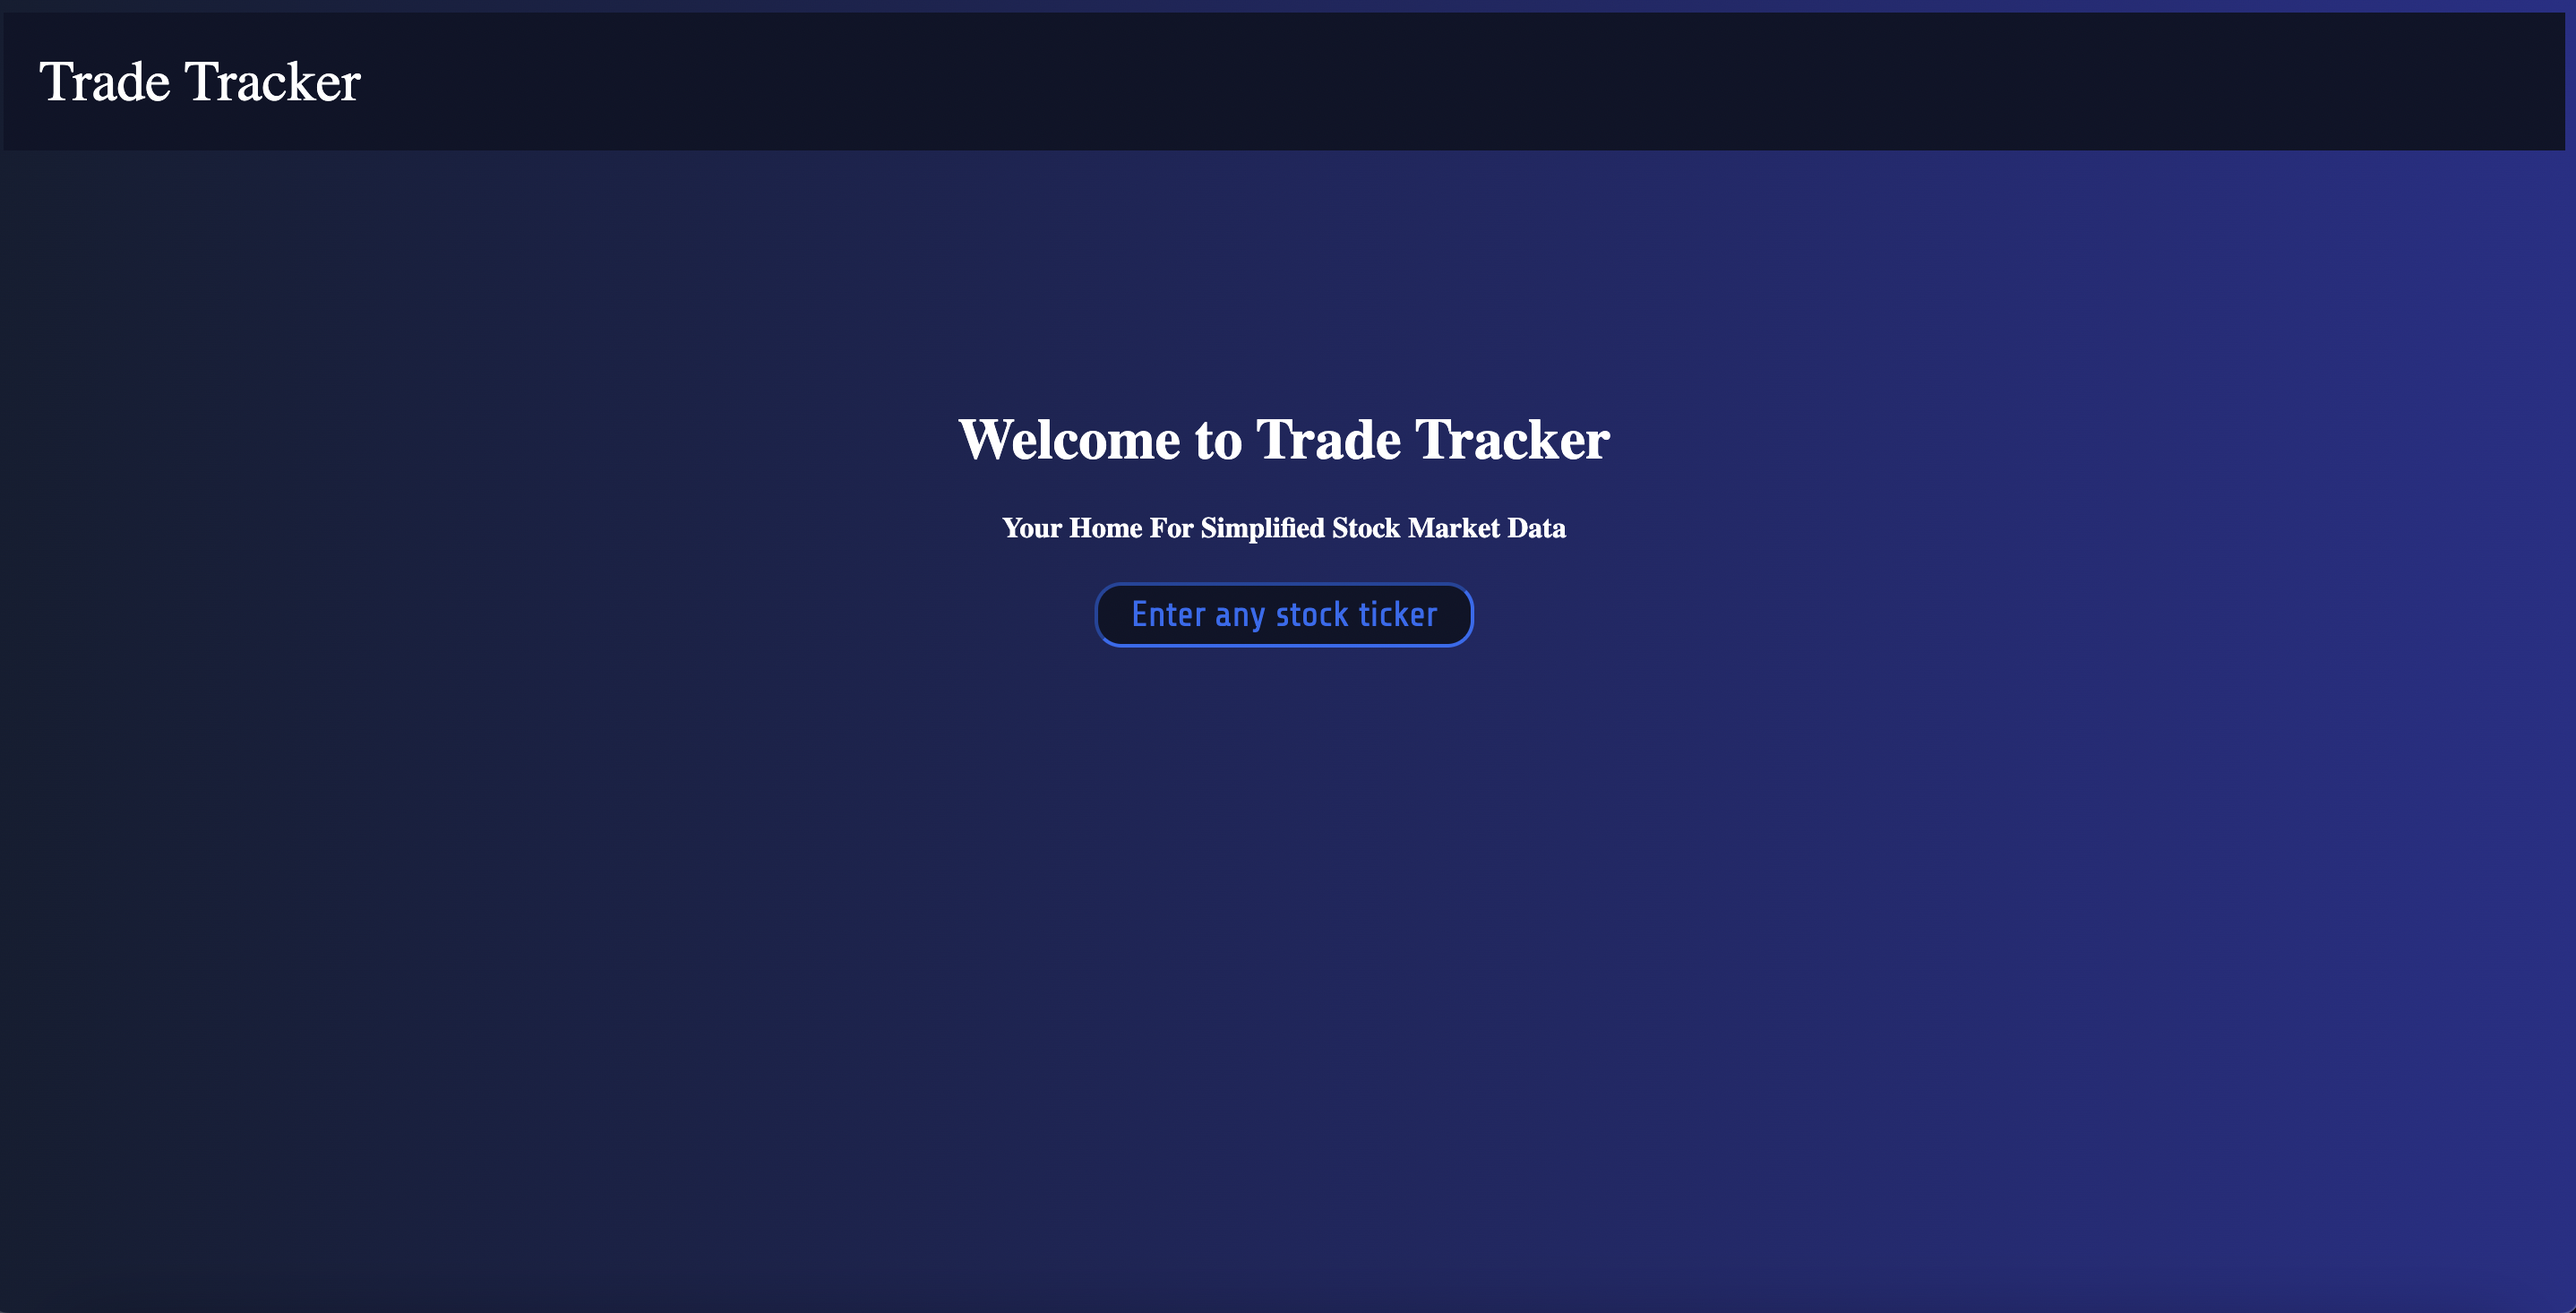
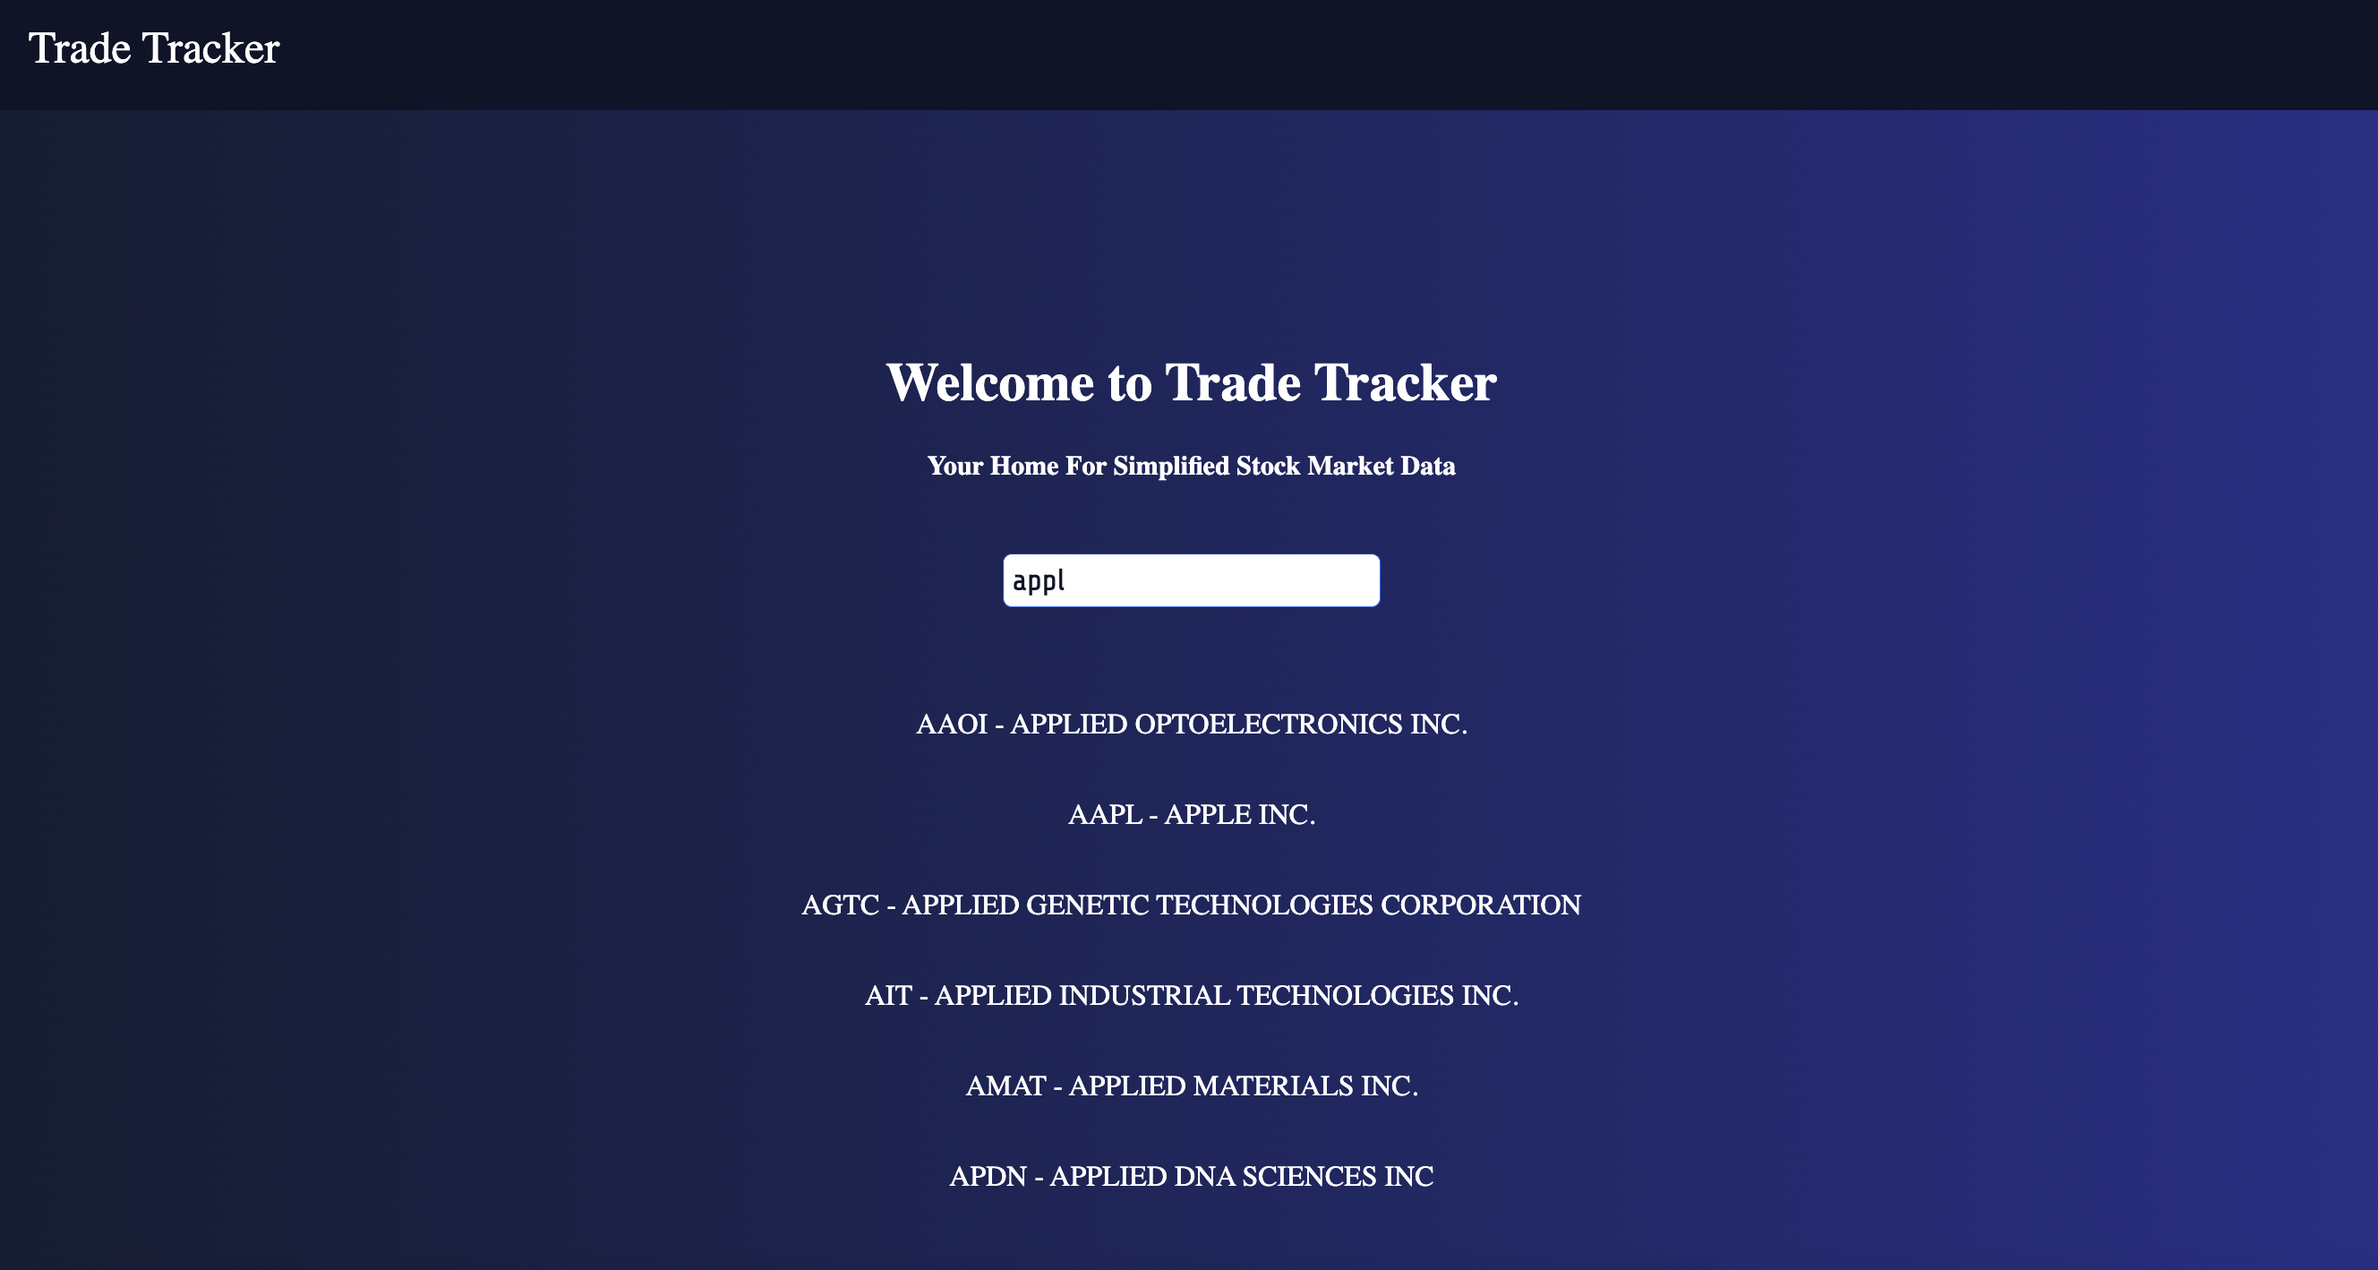
screenshots

diff --git a/README.md b/README.md
@@ -66,6 +66,6 @@ As a user, I want to see visual aids such as charts or graphs.
 
 ## Screenshots
 ![home screen](https://github.com/JCollinJones25/Project-3/blob/main/public/images/home-screen.png?raw=true)
-![home search](https://github.com/JCollinJones25/Project-3/blob/main/public/images/home-screen-search.png?raw=true)
 ![stock page](https://github.com/JCollinJones25/Project-3/blob/main/public/images/stock-page.png?raw=true)
+![search](https://github.com/JCollinJones25/Project-3/blob/main/public/images/search.png?raw=true)
 ![chart](https://github.com/JCollinJones25/Project-3/blob/main/public/images/chart.png?raw=true)
